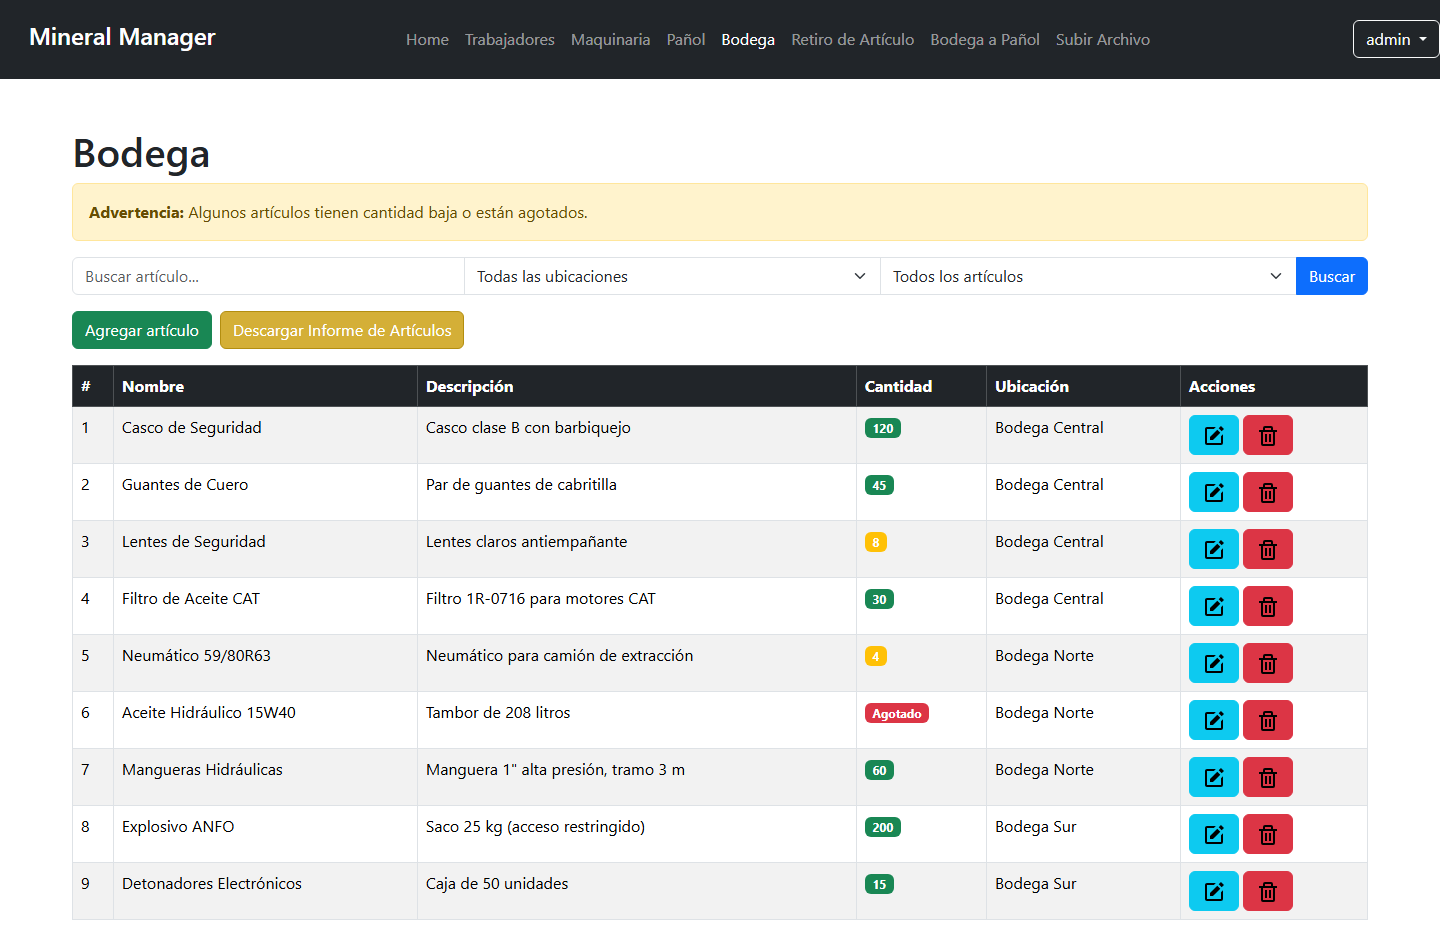
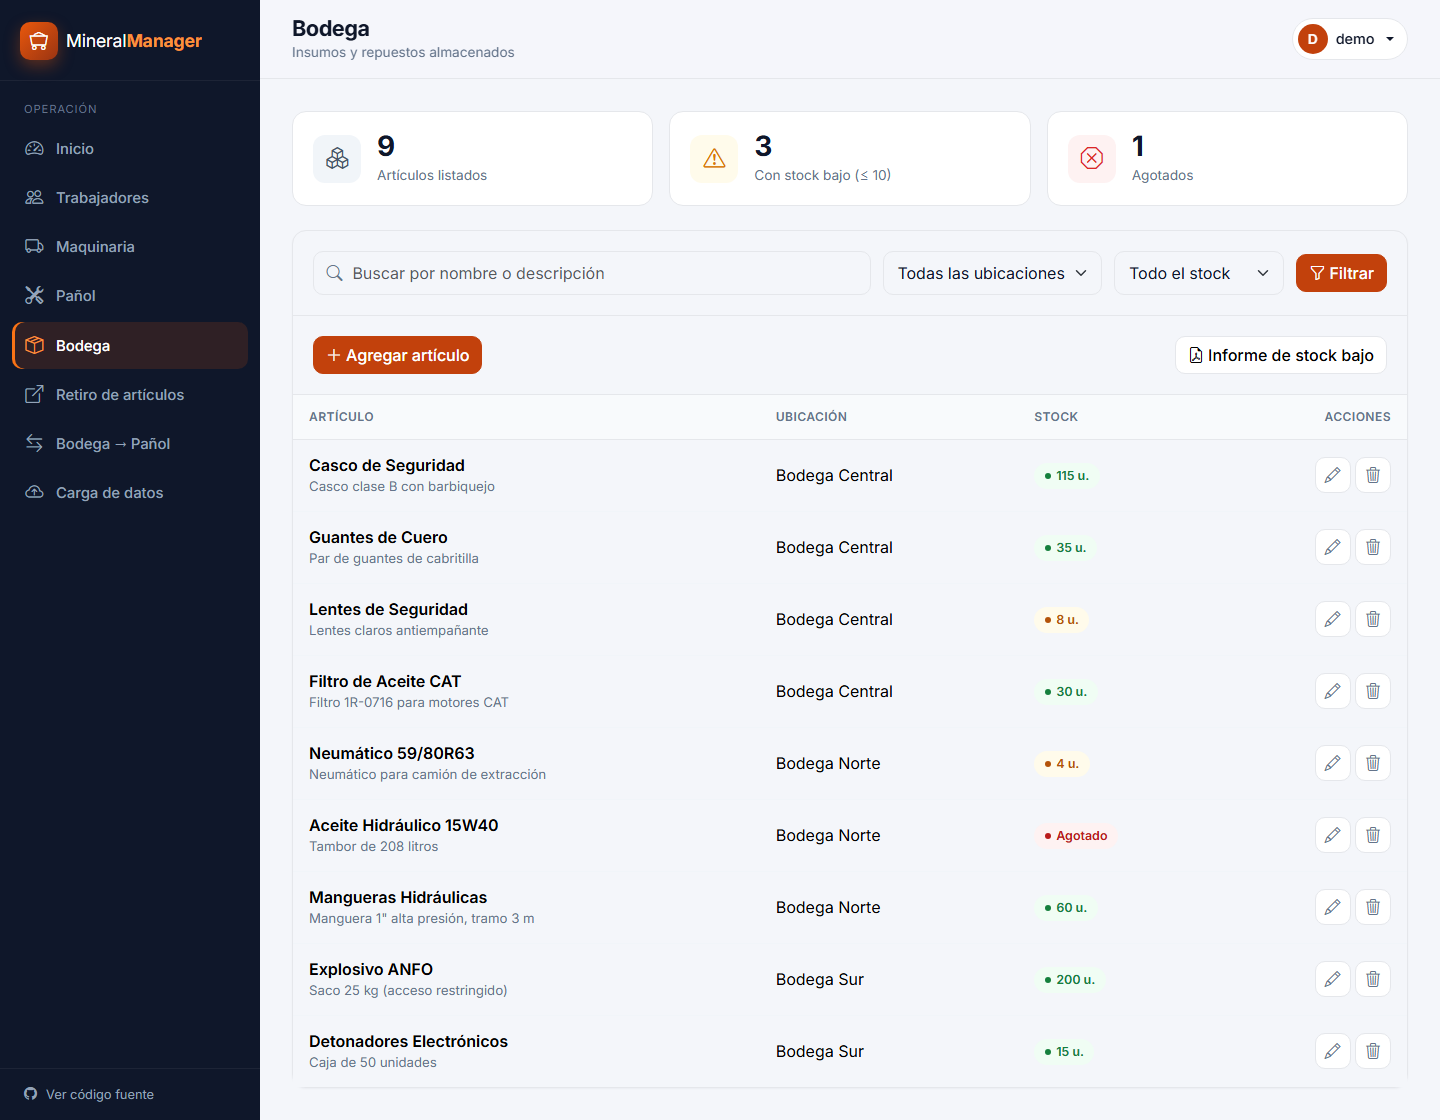
docs: README para probar el proyecto, capturas nuevas y CHANGELOG

diff --git a/README.md b/README.md
@@ -1,13 +1,19 @@
 <div align="center">
 
-# ⛏ Mineral Manager
+<img src="static/img/favicon.svg" width="72" alt="Logo de Mineral Manager">
 
-**Sistema web para la gestión operativa de una faena minera:** trabajadores, certificaciones, maquinaria, bodega y pañol en un solo lugar.
+# Mineral Manager
 
-![Python](https://img.shields.io/badge/Python-3.10%E2%80%933.13-3776AB?logo=python&logoColor=white)
-![Django](https://img.shields.io/badge/Django-4.2-092E20?logo=django&logoColor=white)
+**Sistema web para la gestión operativa de una faena minera:**
+trabajadores y certificaciones, maquinaria, bodega y pañol en un solo lugar.
+
+[![Tests](https://github.com/y-jeff/Mineral_Manager/actions/workflows/tests.yml/badge.svg)](https://github.com/y-jeff/Mineral_Manager/actions/workflows/tests.yml)
+![Python](https://img.shields.io/badge/Python-3.10%E2%80%933.14-3776AB?logo=python&logoColor=white)
+![Django](https://img.shields.io/badge/Django-5.2_LTS-092E20?logo=django&logoColor=white)
 ![Bootstrap](https://img.shields.io/badge/Bootstrap-5.3-7952B3?logo=bootstrap&logoColor=white)
-![SQLite](https://img.shields.io/badge/SQLite-003B57?logo=sqlite&logoColor=white)
+![Chart.js](https://img.shields.io/badge/Chart.js-4-FF6384?logo=chartdotjs&logoColor=white)
+
+[Probar en 1 minuto](#-probar-en-1-minuto) · [Funcionalidades](#-funcionalidades) · [Capturas](#-capturas) · [Aspectos técnicos](#-aspectos-técnicos)
 
 <img src="docs/img/inicio.png" alt="Panel principal de Mineral Manager" width="900">
 
@@ -15,126 +21,100 @@
 
 ---
 
-## 📋 Contenido
+## 🚀 Probar en 1 minuto
 
-- [Funcionalidades](#-funcionalidades)
-- [Capturas](#-capturas)
-- [Instalación](#-instalación)
-- [Probar con datos de ejemplo (Excel)](#-probar-con-datos-de-ejemplo-excel)
-- [Formato de los archivos de carga](#-formato-de-los-archivos-de-carga)
-- [Estructura del proyecto](#-estructura-del-proyecto)
+Solo necesitas **Python 3.10 o superior** ([descargar](https://www.python.org/downloads/)).
+
+```bash
+git clone https://github.com/y-jeff/Mineral_Manager.git
+cd Mineral_Manager
+```
+
+| Sistema | Comando |
+|---|---|
+| **Windows** | Doble clic en `iniciar_demo.bat` |
+| **macOS / Linux** | `./iniciar_demo.sh` |
+
+El script crea el entorno virtual, instala las dependencias, prepara la base de datos con una faena de ejemplo y abre <http://127.0.0.1:8000>.
+
+> **Cuenta de demostración:** usuario `demo` · contraseña `demo1234`
+> (también aparece en la pantalla de inicio de sesión, con un botón para completarla).
+
+<details>
+<summary><b>Instalación manual</b> (paso a paso)</summary>
+
+```bash
+python -m venv venv
+venv\Scripts\activate            # Windows
+# source venv/bin/activate       # macOS / Linux
+
+pip install -r requirements.txt
+python manage.py migrate
+python manage.py cargar_demo     # crea la cuenta demo y los datos de ejemplo
+python manage.py runserver
+```
+
+`cargar_demo --reset` borra los datos y vuelve a cargar la demo con fechas actualizadas.
+</details>
 
 ## ✨ Funcionalidades
 
 | Módulo | Qué permite hacer |
 |---|---|
-| **Panel principal** | Resumen de trabajadores activos, stock bajo, maquinaria en mantenimiento o inactiva y certificaciones por vencer. |
-| **Trabajadores** | Alta, edición y baja de trabajadores; filtros por área, turno y estado de certificaciones; informe en PDF. |
-| **Certificaciones** | Capacitaciones renovables (con fecha de vencimiento) y no renovables; alertas a 30 y 90 días y vencidas. |
-| **Maquinaria** | Estado de cada equipo, historial de mantenimientos y trabajos, con cálculo automático de horas. |
-| **Bodega y Pañol** | Inventario con alertas de stock bajo (≤ 10) y agotado, filtros por ubicación e informes en PDF. |
-| **Bodega → Pañol** | Traspaso de artículos entre ubicaciones con registro del movimiento. |
-| **Retiro de artículos** | Préstamo de herramientas del pañol a trabajadores y registro de devoluciones. |
-| **Carga masiva** | Importación desde **CSV** o desde un **Excel (.xlsx) con varias hojas** en una sola subida. |
-| **Usuarios** | Inicio de sesión y recuperación de contraseña por correo. |
+| **Panel principal** | Indicadores de la operación, gráficos de dotación por área y estado de la maquinaria, certificaciones por vencer y artículos para reponer. |
+| **Trabajadores** | Alta, edición y baja; filtros por área, turno y estado de certificaciones; informe en PDF. |
+| **Certificaciones** | Renovables (con vencimiento) y no renovables; alertas a 30 y 90 días y vencidas. |
+| **Maquinaria** | Estado de cada equipo, registro de mantenimientos y trabajos con cálculo automático de horas. |
+| **Bodega y pañol** | Inventario con alertas de stock bajo y agotado, filtros e informes en PDF. |
+| **Bodega → Pañol** | Traspasos de stock con historial de movimientos. |
+| **Retiro de artículos** | Préstamo de herramientas a trabajadores y registro de devoluciones. |
+| **Carga masiva** | Importación desde **Excel** (una hoja por tabla, todo o nada) o **CSV**. |
+| **Cuentas** | Inicio de sesión y recuperación de contraseña por correo. |
 
 ## 📸 Capturas
 
 <table>
   <tr>
-    <td align="center"><img src="docs/img/login.png" alt="Inicio de sesión"><br><sub><b>Inicio de sesión</b></sub></td>
-    <td align="center"><img src="docs/img/trabajadores.png" alt="Gestión de trabajadores"><br><sub><b>Gestión de trabajadores</b></sub></td>
+    <td align="center" width="50%"><img src="docs/img/login.png" alt="Inicio de sesión"><br><sub><b>Inicio de sesión con cuenta demo</b></sub></td>
+    <td align="center" width="50%"><img src="docs/img/trabajadores.png" alt="Trabajadores"><br><sub><b>Trabajadores y estado de certificaciones</b></sub></td>
   </tr>
   <tr>
-    <td align="center"><img src="docs/img/maquinaria.png" alt="Gestión de maquinaria"><br><sub><b>Maquinaria</b></sub></td>
-    <td align="center"><img src="docs/img/trabajos_maquinaria.png" alt="Trabajos de una máquina"><br><sub><b>Trabajos por máquina</b></sub></td>
+    <td align="center"><img src="docs/img/trabajador_detalle.png" alt="Detalle de trabajador"><br><sub><b>Ficha del trabajador</b></sub></td>
+    <td align="center"><img src="docs/img/editar_trabajador.png" alt="Editar trabajador"><br><sub><b>Edición de datos y certificaciones</b></sub></td>
   </tr>
   <tr>
-    <td align="center"><img src="docs/img/panol.png" alt="Inventario de pañol"><br><sub><b>Pañol</b></sub></td>
-    <td align="center"><img src="docs/img/bodega.png" alt="Inventario de bodega"><br><sub><b>Bodega</b></sub></td>
+    <td align="center"><img src="docs/img/maquinaria.png" alt="Maquinaria"><br><sub><b>Maquinaria</b></sub></td>
+    <td align="center"><img src="docs/img/trabajos_maquinaria.png" alt="Historial de trabajos"><br><sub><b>Historial de trabajos por equipo</b></sub></td>
   </tr>
   <tr>
-    <td align="center"><img src="docs/img/retiros.png" alt="Retiro de artículos"><br><sub><b>Retiro de artículos</b></sub></td>
-    <td align="center"><img src="docs/img/subir_archivo.png" alt="Carga de archivos"><br><sub><b>Carga de archivos</b></sub></td>
+    <td align="center"><img src="docs/img/panol.png" alt="Pañol"><br><sub><b>Inventario del pañol</b></sub></td>
+    <td align="center"><img src="docs/img/retiros.png" alt="Retiros"><br><sub><b>Retiros y devoluciones</b></sub></td>
+  </tr>
+  <tr>
+    <td align="center"><img src="docs/img/mover_articulo.png" alt="Traspasos"><br><sub><b>Traspasos de bodega a pañol</b></sub></td>
+    <td align="center"><img src="docs/img/carga_datos.png" alt="Carga de datos"><br><sub><b>Carga masiva desde Excel</b></sub></td>
   </tr>
 </table>
 
-## 🚀 Instalación
+<p align="center"><img src="docs/img/movil.png" alt="Versión móvil" width="280"><br><sub><b>Diseño adaptable a celulares</b></sub></p>
 
-> Requiere **Python 3.10 a 3.13**. Django 4.2 todavía no funciona con Python 3.14.
+## 🧠 Aspectos técnicos
 
-```bash
-# 1. Clonar el repositorio
-git clone https://github.com/y-jeff/Mineral_Manager.git
-cd Mineral_Manager
-
-# 2. Crear y activar un entorno virtual
-python -m venv venv
-venv\Scripts\activate          # Windows
-# source venv/bin/activate     # macOS / Linux
-
-# 3. Instalar dependencias
-pip install -r requirements.txt
-
-# 4. Crear la base de datos y un usuario administrador
-python manage.py migrate
-python manage.py createsuperuser
-
-# 5. Levantar el servidor
-python manage.py runserver
-```
-
-Abre <http://127.0.0.1:8000> e inicia sesión con el usuario que creaste.
-
-### Variables de entorno (opcionales)
-
-Para desarrollo local no hace falta configurar nada. Para producción o para que funcione la recuperación de contraseña, define estas variables (hay un ejemplo en [`.env.example`](.env.example)):
-
-| Variable | Uso |
-|---|---|
-| `DJANGO_SECRET_KEY` | Clave secreta de Django. **Obligatoria en producción.** |
-| `DJANGO_DEBUG` | `True` o `False`. |
-| `EMAIL_HOST_USER` | Correo Gmail desde el que se envían los enlaces de recuperación. |
-| `EMAIL_HOST_PASSWORD` | [Contraseña de aplicación](https://myaccount.google.com/apppasswords) de ese correo. |
-| `DJANGO_DB_PATH` | Ruta a otro archivo SQLite (por defecto `db.sqlite3`). |
-
-```powershell
-# Windows (PowerShell)
-$env:EMAIL_HOST_USER = "tu-correo@gmail.com"
-$env:EMAIL_HOST_PASSWORD = "xxxx xxxx xxxx xxxx"
-```
-
-## 🧪 Probar con datos de ejemplo (Excel)
-
-El repositorio incluye un Excel listo para cargar y probar **todas** las secciones:
-
-📄 [`datos_prueba/MineralManager_Datos_Prueba.xlsx`](datos_prueba/MineralManager_Datos_Prueba.xlsx)
-
-1. Inicia sesión y entra a **Subir Archivo**.
-2. Selecciona el Excel y presiona **Subir**.
-3. Recorre el sistema: el panel principal ya muestra alertas, stock bajo y certificaciones por vencer.
-
-| Hoja | Registros | Qué permite probar |
-|---|---:|---|
-| Trabajadores | 12 | Áreas, cargos, turnos A/B, jornadas y horas trabajadas vs. esperadas |
-| Maquinarias | 8 | Estados *Activo*, *En Mantenimiento* e *Inactivo* |
-| Inventario Bodega | 9 | Stock normal, bajo y agotado |
-| Inventario Pañol | 8 | Stock normal, bajo y agotado |
-| Capacitaciones | 14 | Certificaciones vencidas, por vencer (< 30 y < 90 días), vigentes y no renovables |
-| Mantenimientos | 5 | Historial por máquina |
-| Trabajos Maquinaria | 6 | Horas calculadas automáticamente desde inicio y fin |
-
-Las fechas se calculan respecto al día en que se generó el archivo. Para regenerarlo con fechas actuales:
+- **Arquitectura Django clásica (MVT):** modelos relacionales para la faena, vistas por módulo y plantillas que heredan de un layout común (`base.html`). El menú se genera con un *context processor*.
+- **Carga masiva transaccional:** cada hoja del Excel se reconoce por sus columnas y se procesa dentro de `transaction.atomic()`; si una fila falla, no se guarda nada.
+- **Integridad del inventario:** los traspasos y retiros actualizan el stock con expresiones `F()` en la base de datos y quedan registrados en su historial.
+- **Seguridad:** todas las vistas requieren sesión, las acciones por `fetch` envían token CSRF y las credenciales se leen desde variables de entorno.
+- **Pruebas automáticas:** 20 pruebas cubren acceso, carga de datos, trabajadores, inventario y maquinaria. Se ejecutan en GitHub Actions con Python 3.10, 3.12 y 3.14.
+- **Datos de demostración reproducibles:** el comando `cargar_demo` arma la faena de ejemplo con fechas relativas al día actual, así siempre hay alertas que mostrar.
+- **Informes PDF** con ReportLab y **gráficos** con Chart.js.
 
 ```bash
-python datos_prueba/generar_excel.py
+python manage.py test        # ejecuta las pruebas
 ```
 
-> Si una hoja tiene un error, **no se guarda nada** del archivo y se muestra el motivo. Los mantenimientos y trabajos se agregan cada vez que se sube el archivo, así que conviene cargarlo una sola vez por base de datos.
+## 📑 Formato de carga de datos
 
-## 📑 Formato de los archivos de carga
-
-Puedes subir un **CSV por tabla** o un **Excel con una hoja por tabla** (el orden de las hojas importa: primero trabajadores y maquinarias). El sistema reconoce cada tabla por los nombres de sus columnas:
+Puedes subir un **Excel con una hoja por tabla** o un **CSV por tabla**. El sistema reconoce cada tabla por sus columnas; el Excel de ejemplo está en [`static/ejemplos/`](static/ejemplos/MineralManager_Datos_Prueba.xlsx) y también se descarga desde la app.
 
 | Tabla | Columnas |
 |---|---|
@@ -143,28 +123,46 @@ Puedes subir un **CSV por tabla** o un **Excel con una hoja por tabla** (el orde
 | Inventario Bodega | `Bodega`, `Nombre Articulo`, `Descripción`, `Cantidad` |
 | Inventario Pañol | `Pañol`, `Nombre Articulo`, `Descripción`, `Cantidad` |
 | Capacitaciones | `RUT`, `Capacitacion`, `Fecha Inicio`, `Fecha Fin` (vacía = no renovable) |
-| Mantenimientos | `Código`, `Fecha Mantenimiento`, `Descripción`, `Realizado Por` (nombre del trabajador) |
+| Mantenimientos | `Código`, `Fecha Mantenimiento`, `Descripción`, `Realizado Por` |
 | Trabajos Maquinaria | `Código`, `RUT`, `Fecha Inicio`, `Fecha Fin` (`AAAA-MM-DD HH:MM`), `Descripción` |
 
-Fechas en formato `AAAA-MM-DD`.
+## ⚙ Configuración
+
+Para probar en local no hace falta configurar nada. Para producción o para habilitar la recuperación de contraseña por correo, define estas variables de entorno (ejemplo en [`.env.example`](.env.example)):
+
+| Variable | Uso |
+|---|---|
+| `DJANGO_SECRET_KEY` | Clave secreta de Django. **Obligatoria en producción.** |
+| `DJANGO_DEBUG` | `True` o `False`. |
+| `EMAIL_HOST_USER` / `EMAIL_HOST_PASSWORD` | Cuenta Gmail y [contraseña de aplicación](https://myaccount.google.com/apppasswords) para enviar correos. |
+| `DJANGO_DB_PATH` | Ruta a otro archivo SQLite (por defecto `db.sqlite3`). |
 
 ## 🗂 Estructura del proyecto
 
 ```
 Mineral_Manager/
-├── MineralApp/          # Aplicación principal: modelos, vistas, formularios
-├── MineralManager/      # Configuración de Django (settings, urls)
-├── templates/           # Plantillas HTML
-├── static/              # CSS y JavaScript
-├── datos_prueba/        # Excel de ejemplo y script que lo genera
-├── docs/img/            # Capturas usadas en este README
-├── manage.py
+├── MineralApp/
+│   ├── models.py               # Modelos de la faena
+│   ├── views.py                # Vistas, agrupadas por módulo
+│   ├── forms.py
+│   ├── demo.py                 # Datos de la faena de demostración
+│   ├── context_processors.py   # Menú lateral
+│   ├── management/commands/
+│   │   └── cargar_demo.py      # python manage.py cargar_demo
+│   └── tests.py                # Pruebas automáticas
+├── MineralManager/             # Configuración de Django (settings, urls)
+├── templates/                  # base.html, auth_base.html, páginas y parciales
+├── static/                     # Tema (CSS), JavaScript, ícono y Excel de ejemplo
+├── docs/img/                   # Capturas de este README
+├── iniciar_demo.bat / .sh      # Instalación y arranque en un paso
 └── requirements.txt
 ```
 
 ## 🛠 Tecnologías
 
-- **Backend:** Django 4.2 (Python)
-- **Frontend:** HTML, Bootstrap 5, JavaScript
-- **Base de datos:** SQLite
-- **Informes:** ReportLab (PDF) · **Carga de datos:** openpyxl (Excel) y CSV
+**Backend:** Python · Django 5.2 LTS · SQLite  
+**Frontend:** HTML · Bootstrap 5.3 · Bootstrap Icons · Chart.js · JavaScript  
+**Datos e informes:** openpyxl (Excel) · ReportLab (PDF)  
+**Calidad:** pruebas con el framework de Django · GitHub Actions
+
+Historial de versiones en [CHANGELOG.md](CHANGELOG.md).

diff --git a/CHANGELOG.md b/CHANGELOG.md
@@ -1,0 +1,42 @@
+# Historial de cambios
+
+Formato basado en [Keep a Changelog](https://keepachangelog.com/es-ES/1.1.0/) y [versionado semántico](https://semver.org/lang/es/).
+
+## [2.0.0] - 2026-10-20
+
+### Agregado
+- Rediseño visual completo: plantilla base con menú lateral, tema propio, íconos y diseño adaptable a celulares.
+- Panel principal con gráficos (Chart.js), certificaciones por vencer y artículos para reponer.
+- Cuenta y datos de demostración con `python manage.py cargar_demo`, y scripts `iniciar_demo.bat` / `iniciar_demo.sh` para instalar y abrir la app en un paso.
+- Carga masiva desde Excel (una hoja por tabla, todo o nada) además de CSV, con Excel de ejemplo descargable.
+- Creación de nuevos tipos de certificación desde la pantalla de trabajadores.
+- 20 pruebas automáticas y ejecución en GitHub Actions (Python 3.10, 3.12 y 3.14).
+- README con capturas, guía de instalación y formato de carga.
+
+### Cambiado
+- Actualización a Django 5.2 LTS (compatible con Python 3.10 a 3.14).
+- Credenciales de correo y `SECRET_KEY` se leen desde variables de entorno.
+- Zona horaria `America/Santiago`.
+- `requirements.txt` reducido a las dependencias que usa el proyecto.
+- Código documentado (docstrings en vistas y modelos) y vistas agrupadas por módulo.
+
+### Corregido
+- Los traspasos de bodega a pañol descontaban stock de bodega pero no lo sumaban al pañol.
+- "Registrar mantenimiento" enviaba el formulario a la ruta de trabajos.
+- Registrar y ver trabajos de maquinaria fallaba por un campo inexistente (`fecha_trabajo`).
+- La búsqueda en el historial de mantenimientos fallaba.
+- "Agregar trabajador" no guardaba las certificaciones ingresadas.
+- Editar un trabajador cambiaba su turno, jornada y horario a la primera opción.
+- Los RUT terminados en K no se aceptaban al agregar un trabajador, y los RUT se guardaban sin guion.
+- Dar de baja trabajadores no exigía sesión ni token CSRF.
+- Los historiales de maquinaria podían verse sin iniciar sesión.
+- `create_superuser` fallaba por una variable no definida.
+- La app no iniciaba en sistemas sin el locale `es_ES.UTF-8`.
+
+### Eliminado
+- Base de datos, archivos subidos y `__pycache__` del repositorio.
+- Hojas de estilo, scripts y vistas sin uso.
+
+## [1.0.0] - 2024-12
+
+Versión inicial: gestión de trabajadores, certificaciones, maquinaria, bodega, pañol, retiros y carga de archivos CSV.
